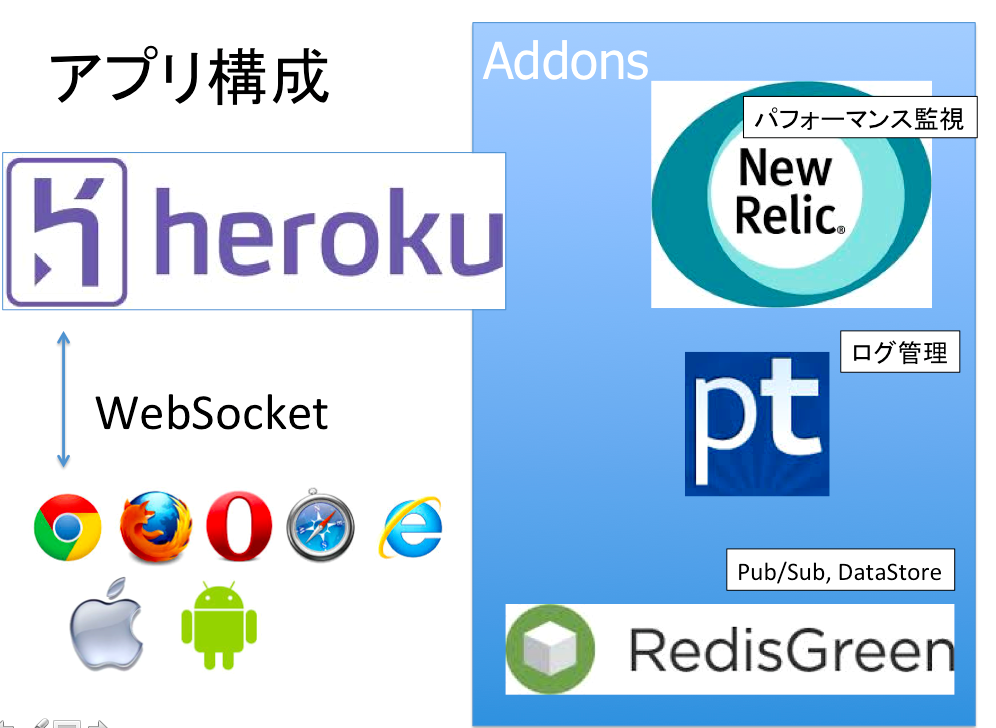
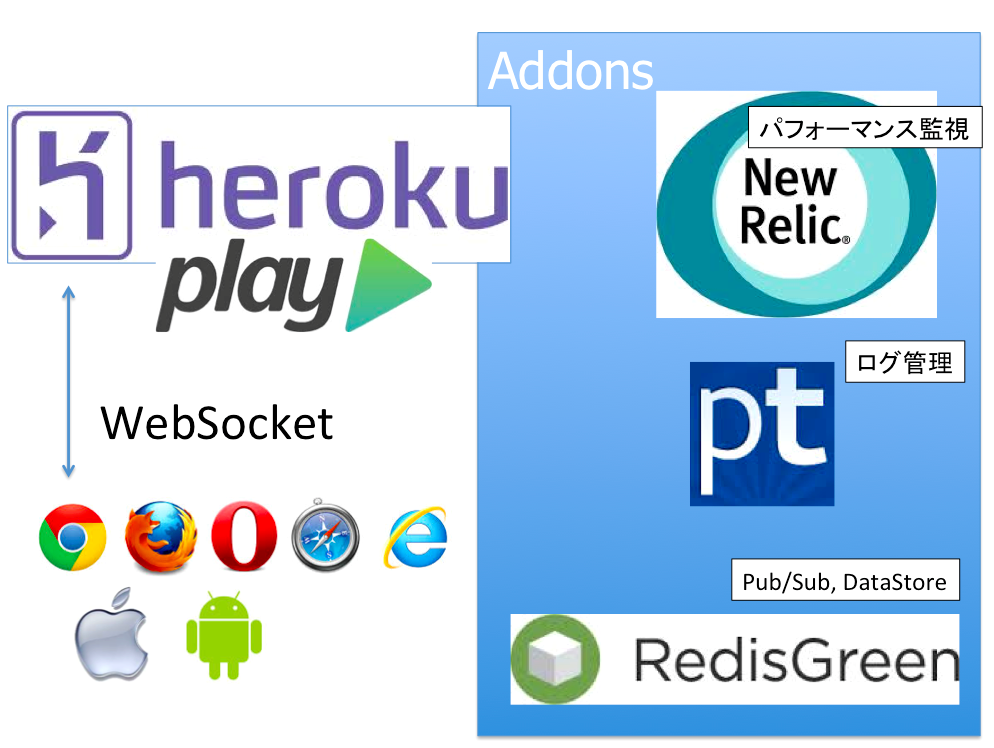
Modify contents

Changed region(s): [[0.0, 0.0302, 0.998, 1.0], [0.0, 0.967, 0.1247, 1.0], [0.7173, 0.3929, 0.7485, 0.4231]]

diff --git a/app/views/summary.scala.html b/app/views/summary.scala.html
@@ -8,15 +8,16 @@
 	<div class="col-sm-12">
 		<div>
 			<ul>
+				<li>git, Playframework, Railsなどの標準技術で使えHerokuのために覚えなければならないことがほとんどない</li>
 				<li>試してみるだけなら無償なので、とりあえず試してみる価値はある</li>
 				<li>豊富なアドオンによって作らなければならないもの、用意しなければならないものが激減する</li>
 				<li>スケールアウト、スケールアップともにコマンド一発(またはWebUI)で可能</li>
 				<li>FLECTではHerokuで開発したい開発者を<a href="http://www.flect.co.jp/recruit/index.html" target="_blank">大募集中</a></li>
 			</ul>
-		<div style="margin-top:40px;">
-			<p>ところでHerokuの弱点は。。。。</p>
+		<div style="margin-top:100px;">
+			<p>ところでHerokuの<span style="color:red;" id="weakpoint">弱点</span>は。。。。</p>
 		</div>
-		<div>
+		<div style="display:none;" id="weakpoint2">
 			<ul>
 				<li style="color:red;font-weight:bold;">サーバーが日本に無い</li>
 				<li>東海岸との往復なのでレイテンシはそれなり。。。これが理由でEC2になることも。</li>
@@ -25,4 +26,16 @@
 		</div>
 	</div>
 </div>
+<script>
+$(function() {
+	$("#weakpoint").click(function() {
+		var $target = $("#weakpoint2");
+		$target.slideDown("slow");
+		setTimeout(function() {
+	        var targetOffset = target.offset().top;
+    	    $('html,body').animate({scrollTop: targetOffset},400,"easeInOutQuart");
+    	}, 1000);
+	});
+})
+</script>
 }

diff --git a/app/views/aboutme.scala.html b/app/views/aboutme.scala.html
@@ -4,14 +4,21 @@
 <div class="page-header">
 	<h1>自己紹介<span style="float:right;font-size:smaller;">Session:【14-E-5】 #devsumiE</span></h1>
 </div>
-<div style="font-size:xx-large;" class="alert alert-info">
-	小西俊司(@@shunjikonishi)
+<div style="font-size:xx-large;">
+	<div class="alert alert-info">
+		デモ：WebSocketでHerokuに負荷をかけよう！
+	</div>
+	<a href="http://ws-vote.herokuapp.com/" target="_blank" style="font-size:48px;">http://ws-vote.herokuapp.com/</a>
+	<hr>
 </div>
 <div class="row">
 	<div class="col-sm-5">
 		<img src="/assets/images/aboutme.png" style="width:100%;" />
 	</div>
 	<div class="col-sm-7">
+		<div style="font-size:xx-large;" class="pull-right">
+			小西俊司(@@shunjikonishi)
+		</div>
 		<dl>
 			<dt>株式会社フレクト</dt>
 			<dd>

diff --git a/app/views/architecture.scala.html b/app/views/architecture.scala.html
@@ -2,7 +2,14 @@
 
 @main("Architecture") {
 <div class="page-header">
-	<h1>&nbsp;<span style="float:right;font-size:smaller;">Session:【14-E-5】 #devsumiE</span></h1>
+	<h1>アプリ構成<span style="float:right;font-size:smaller;">Session:【14-E-5】 #devsumiE</span></h1>
+</div>
+<div style="font-size:xx-large;">
+	<div class="alert alert-info">
+		デモ：WebSocketでHerokuに負荷をかけよう！
+	</div>
+	<a href="http://ws-vote.herokuapp.com/" target="_blank" style="font-size:48px;">http://ws-vote.herokuapp.com/</a>
+	<hr>
 </div>
 <div class="row">
 	<div class="col-sm-12">

diff --git a/app/views/index.scala.html b/app/views/index.scala.html
@@ -9,6 +9,7 @@
 		デモ：WebSocketでHerokuに負荷をかけよう！
 	</div>
 	<a href="http://ws-vote.herokuapp.com/" target="_blank" style="font-size:48px;">http://ws-vote.herokuapp.com/</a>
+	<hr>
 </div>
 <div class="row">
 	<div class="col-sm-7">
